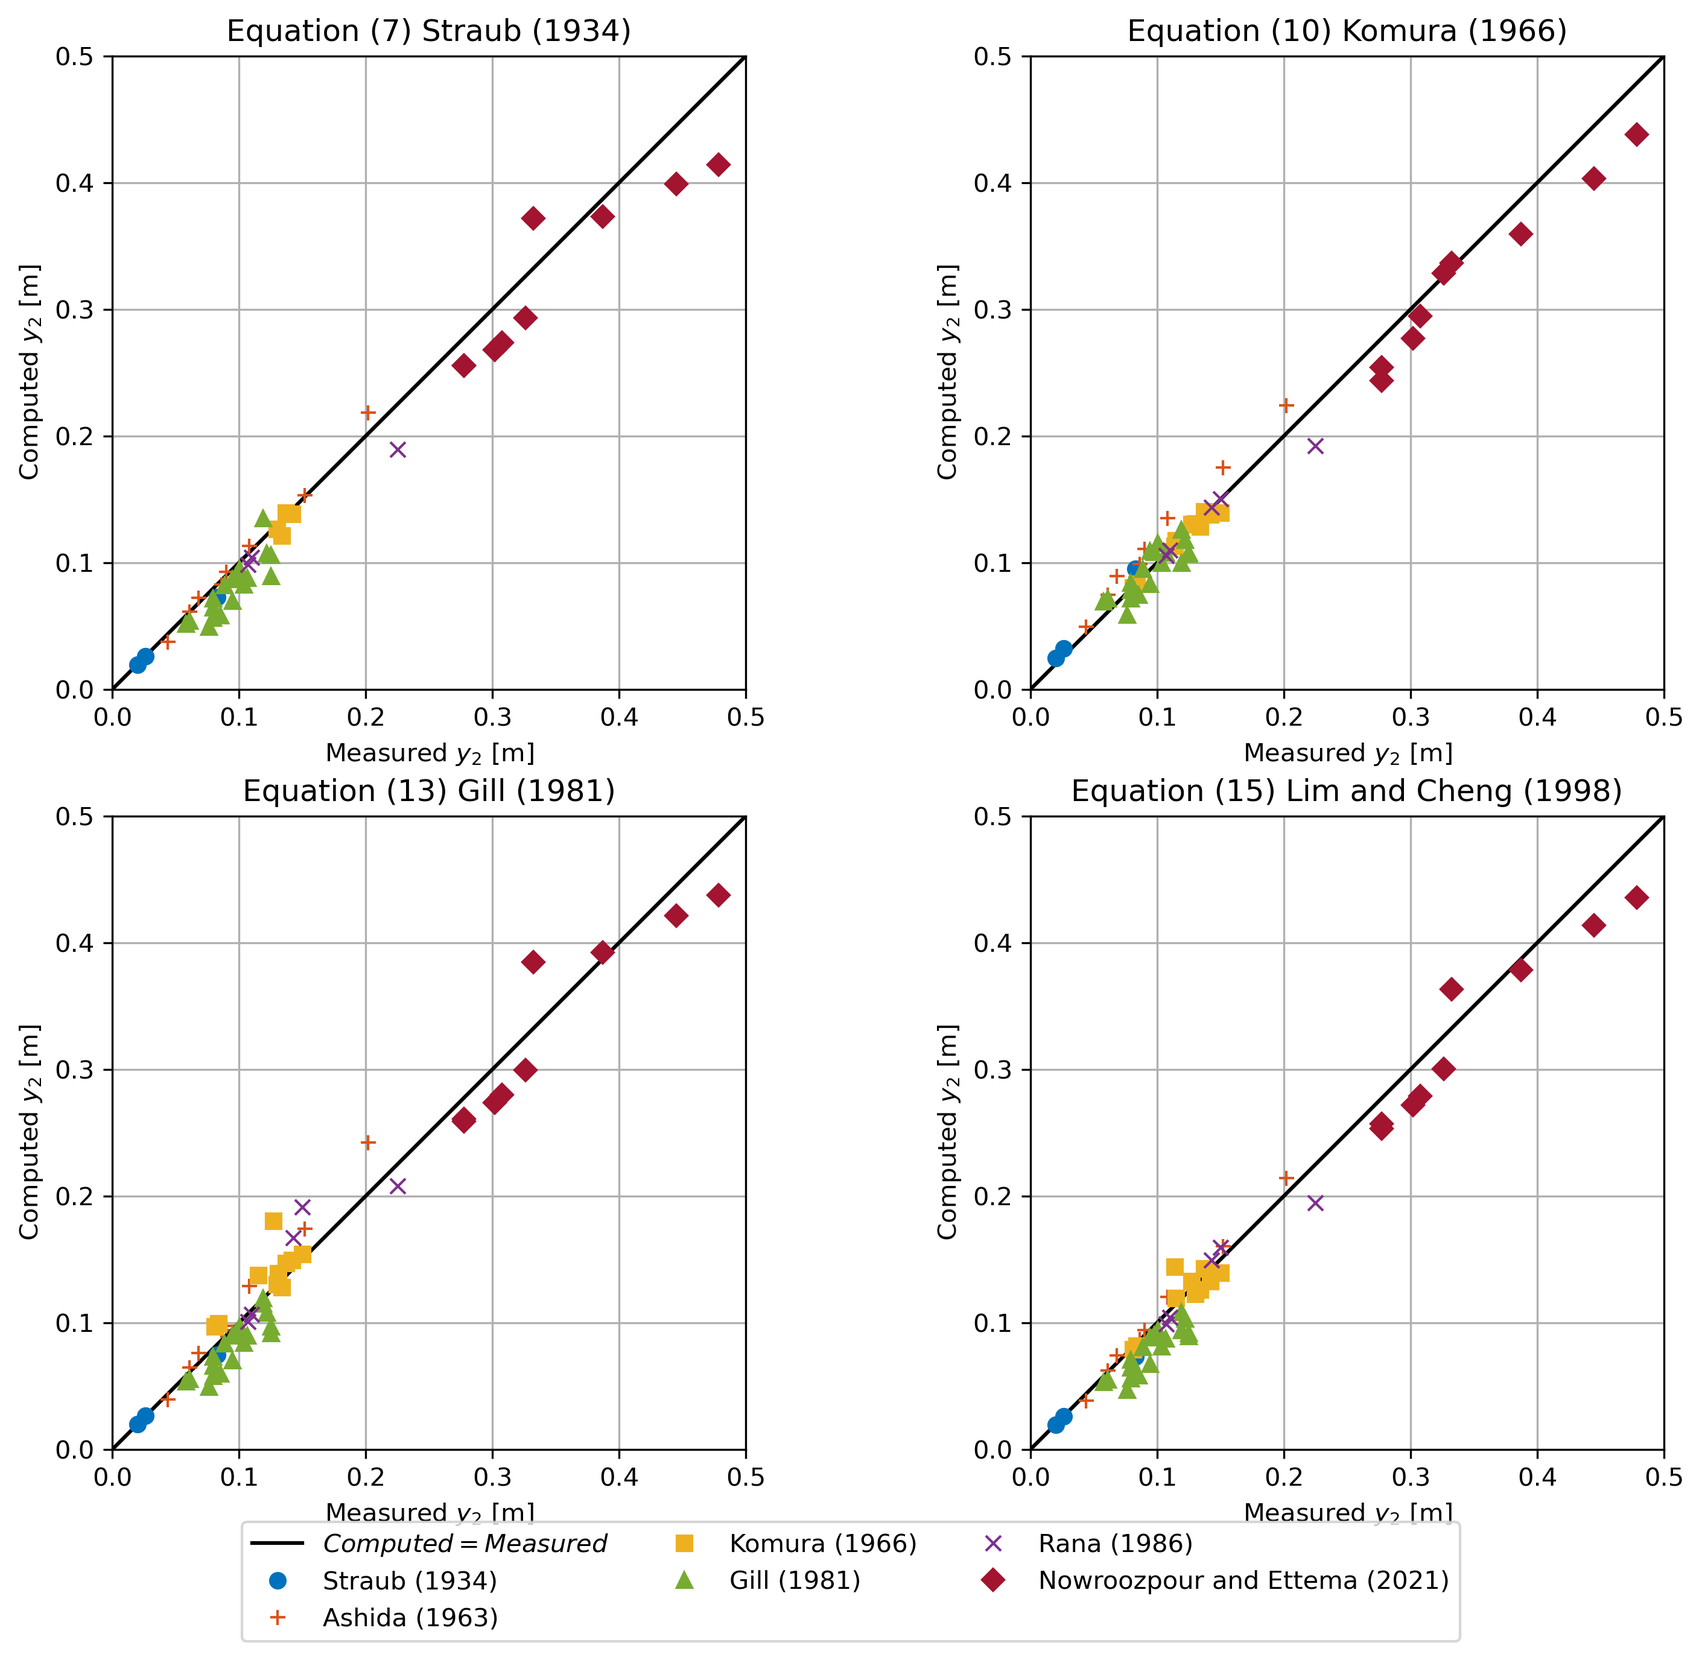
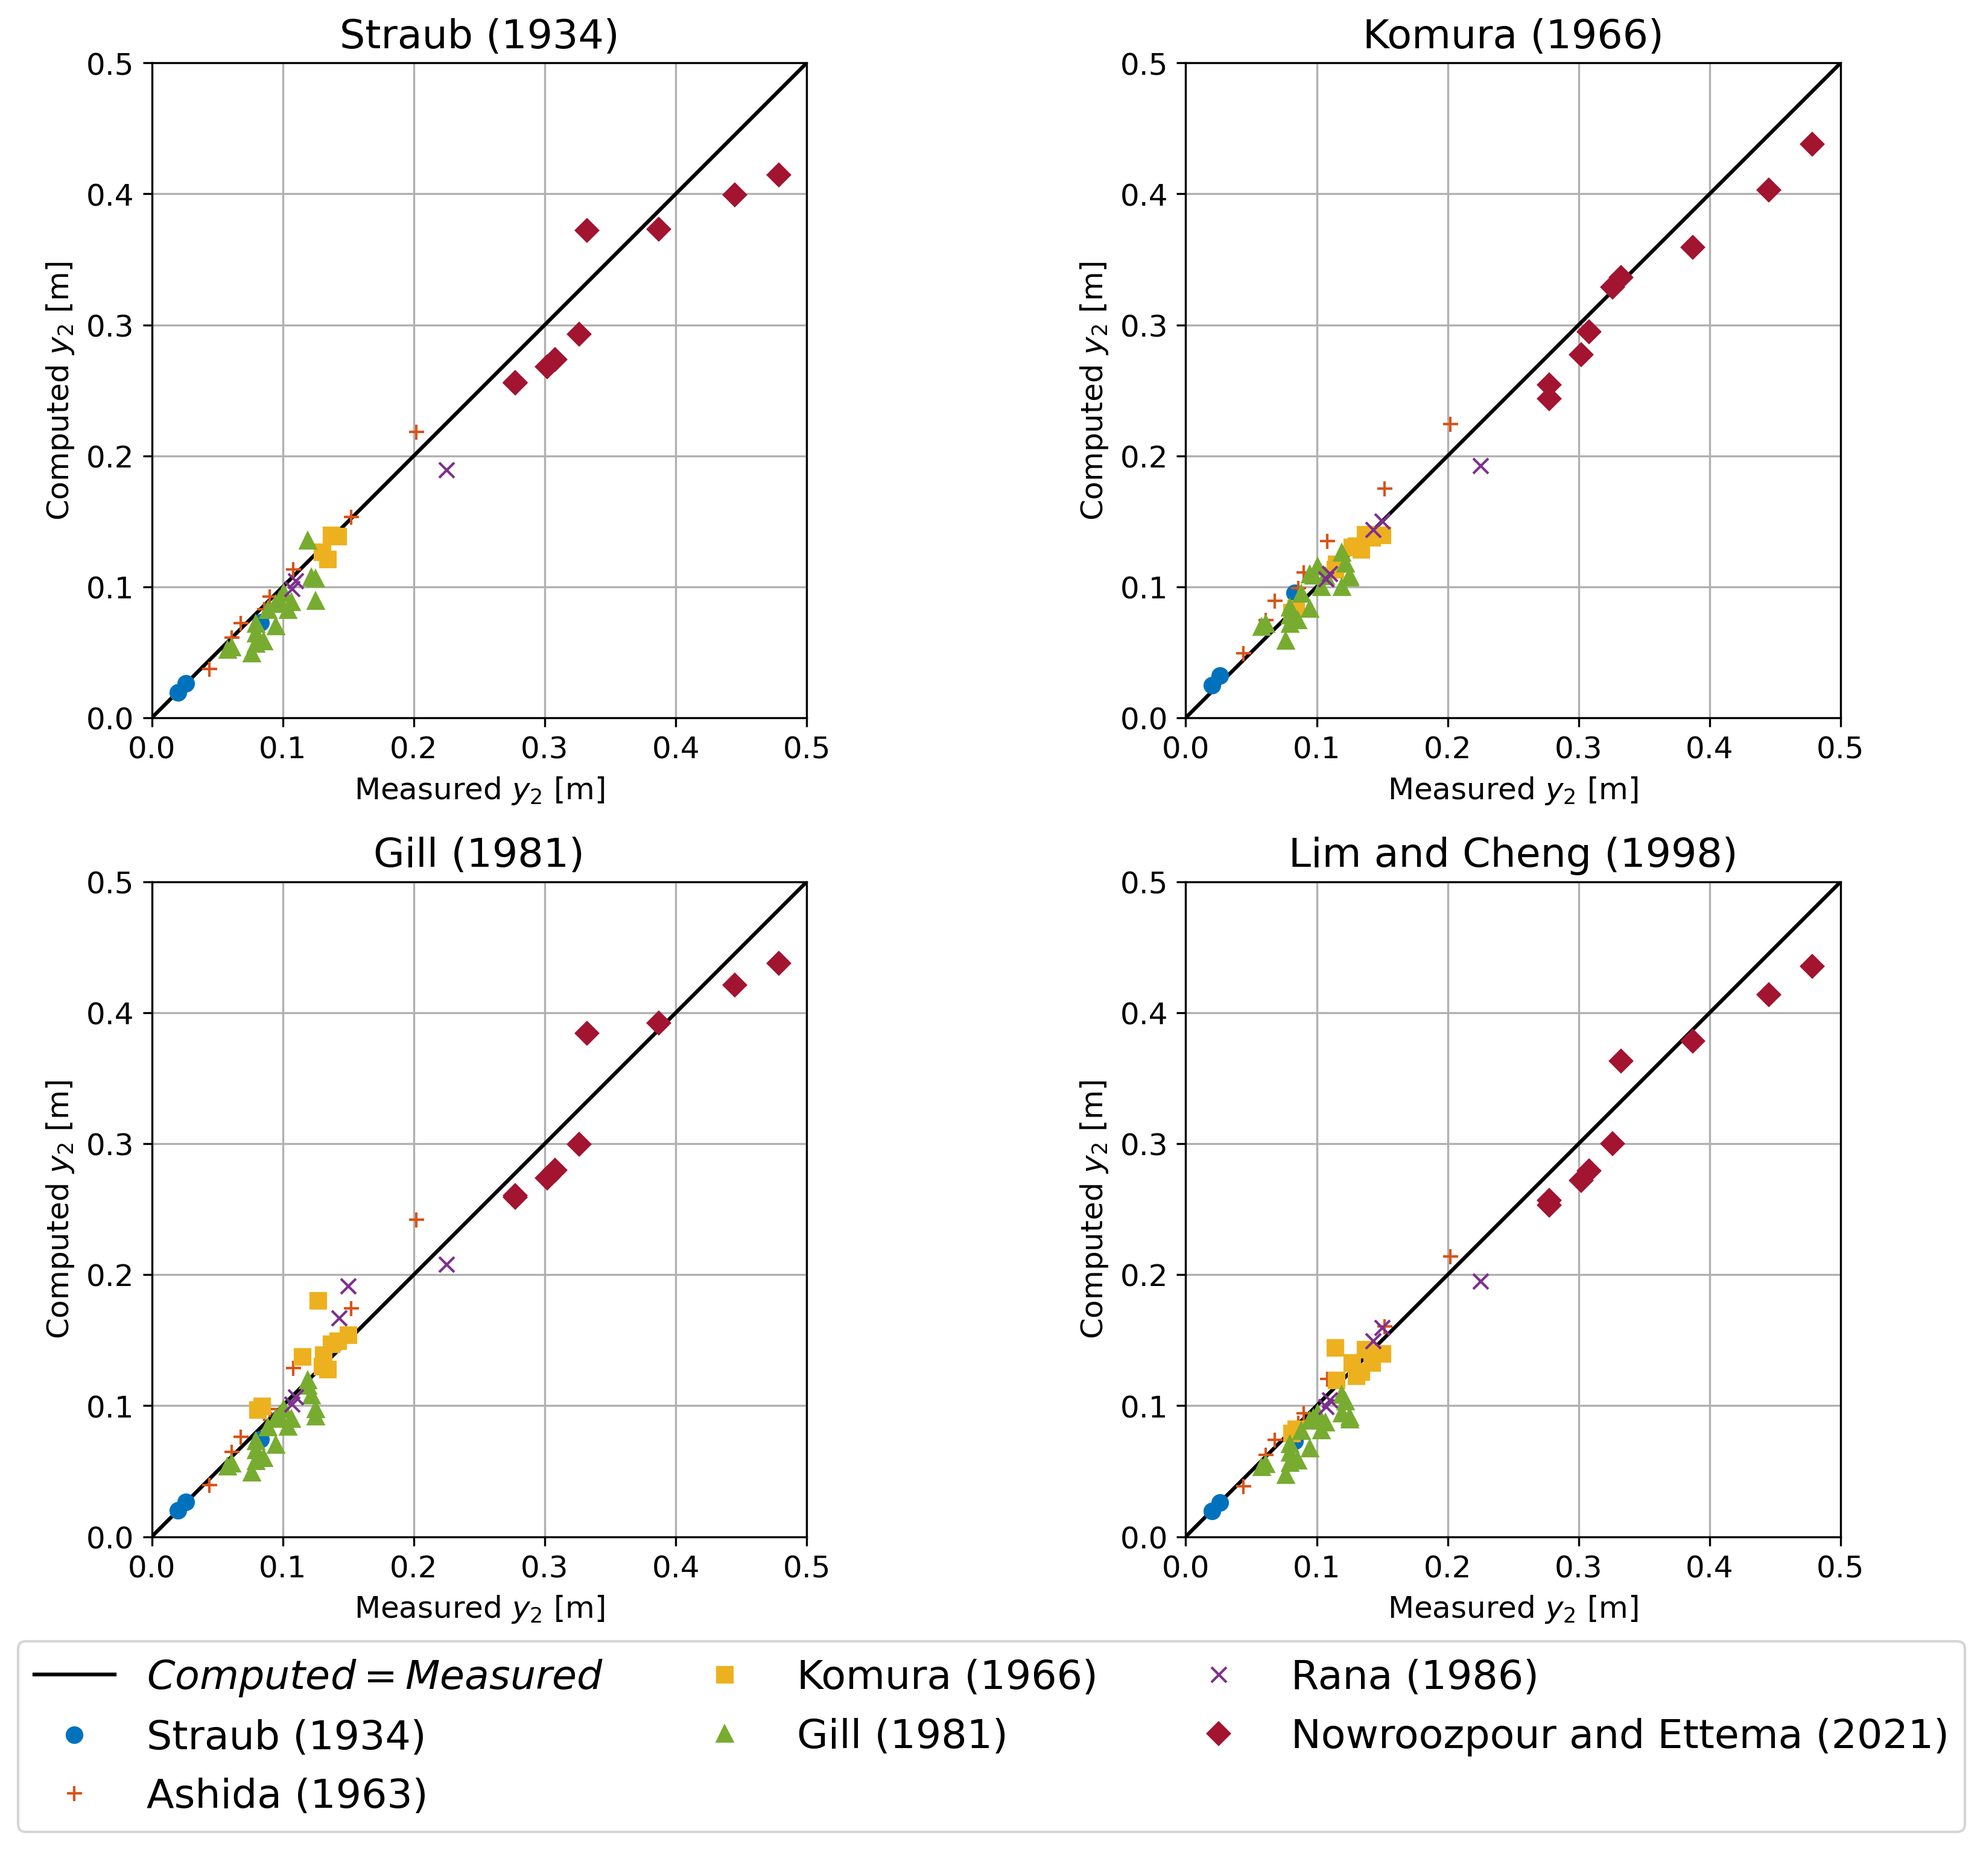
Clean the code so it complied with PEP8, updated README

diff --git a/Code/contraction_scour_analysis.py b/Code/contraction_scour_analysis.py
@@ -4,15 +4,14 @@ import matplotlib.pyplot as plt
 import os
 
 # Set plotting defaults
-""" plt.rcParams.update({
+plt.rcParams.update({
     "lines.linewidth": 1.5,
     "axes.labelsize": 12,
-    "axes.titlesize": 14,
-    "legend.fontsize": 10,
-    "xtick.labelsize": 10,
-    "ytick.labelsize": 10,
-    "text.usetex": True,
-}) """
+    "axes.titlesize": 16,
+    "legend.fontsize": 16,
+    "xtick.labelsize": 12,
+    "ytick.labelsize": 12,
+})
 
 # File path to CSV
 csv_path = r"..\Data\CIVIL_608_Data.csv"
@@ -151,6 +150,10 @@ x_line = np.linspace(0, 0.5, 100)
 y_line = x_line
 
 fig, axs = plt.subplots(2, 2, figsize=(12, 10))
+plt.subplots_adjust(
+    wspace=0.05, hspace=0.25
+)  # Reduce space between columns (wspace)
+
 markers = ['o', '+', 's', '^', 'x', 'D']
 colors = ["#0072BD", "#D95319", "#EDB120", "#77AC30", "#7E2F8E", "#A2142F"]
 labels = [
@@ -171,7 +174,7 @@ for i, study in enumerate(studies):
         color=colors[i],
         label=labels[i]
     )
-ax.set_title("Equation (7) Straub (1934)")
+ax.set_title("Straub (1934)")
 ax.set_xlabel('Measured $y_{2}$ [m]')
 ax.set_ylabel('Computed $y_{2}$ [m]')
 ax.grid(True)
@@ -188,7 +191,7 @@ for i, study in enumerate(studies):
         color=colors[i],
         label=labels[i]
     )
-ax.set_title("Equation (10) Komura (1966)")
+ax.set_title("Komura (1966)")
 ax.set_xlabel('Measured $y_{2}$ [m]')
 ax.set_ylabel('Computed $y_{2}$ [m]')
 ax.grid(True)
@@ -205,7 +208,7 @@ for i, study in enumerate(studies):
         color=colors[i],
         label=labels[i]
     )
-ax.set_title("Equation (13) Gill (1981)")
+ax.set_title("Gill (1981)")
 ax.set_xlabel('Measured $y_{2}$ [m]')
 ax.set_ylabel('Computed $y_{2}$ [m]')
 ax.grid(True)
@@ -222,7 +225,7 @@ for i, study in enumerate(studies):
         color=colors[i],
         label=labels[i]
     )
-ax.set_title("Equation (15) Lim and Cheng (1998)")
+ax.set_title("Lim and Cheng (1998)")
 ax.set_xlabel('Measured $y_{2}$ [m]')
 ax.set_ylabel('Computed $y_{2}$ [m]')
 ax.grid(True)
@@ -235,7 +238,12 @@ for ax in axs.flat:
 
 # Legend
 handles, legend_labels = axs[1, 1].get_legend_handles_labels()
-fig.legend(handles, legend_labels, loc='lower center', ncol=3)
+fig.legend(handles,
+           legend_labels,
+           loc='lower center',
+           ncol=3,
+           bbox_to_anchor=(0.5, -0.03))
+plt.tight_layout(rect=[0, 0.08, 1, 1])
 plt.show()
 
 # Save the figure

diff --git a/README.md b/README.md
@@ -4,24 +4,47 @@
 
 This repository contains materials and instructions for Assignment 2 of CIVIL-608: Research Skills in the Open Science Era.
 
+The code 
+
 ## Contents
 
-- `README.md`: Project overview and instructions
+- `pyproject.toml`: Lists the Python dependencies required for the project.
+- `uv.lock`: Contains locked dependency versions for reproducibility.
+- `Data/`: Directory containing datasets used in the assignment.
+- `Code/`: Source code for data analysis and figure generation.
+- `Figures/`: Output figures generated from the analysis.
+- `LICENSE`: License information for the project.
 
 ## Getting Started
 
 ### Dependencies
 
+The dependencies are listed in the file `pyproject.toml` and in more detail in the file `uv.lock`.
+
 ### Installing
+
+Before installing dependencies, ensure you have a Python distribution (e.g., [Python.org](https://www.python.org/downloads/)) and a code editor (such as [VS Code](https://code.visualstudio.com/) or [PyCharm](https://www.jetbrains.com/pycharm/)) installed on your system.
+
+Install the dependencies listed in the file `pyproject.toml`.
+
+Download the three directories `Data/`, `Code/`, and `Figures/` and placed in a folder of your choice.
 
 ### Executing program
 
+To execute the code goes to the `Code/` directory and open `contraction_scour_analysis.py`
+
 ### Data
+
+The directory `Data/` contain the dataset to reproduce the figure. It will be loaded by the code `contraction_scour_analysis.py`.
+
+### Figures
+
+The directory `Figures/` contain the figure produced by the code `contraction_scour_analysis.py`.
 
 ## License
 
-This project is licensed under the CC0 1.0 Universal License - see the LICENSE file for details.
+This project is licensed under the CC0 1.0 Universal License - see the `LICENSE` file for details.
 
-## Authors
+## Author
 
-[Romain Van Mol]
+[Romain Van Mol](romain.vanmol@epfl.ch)
